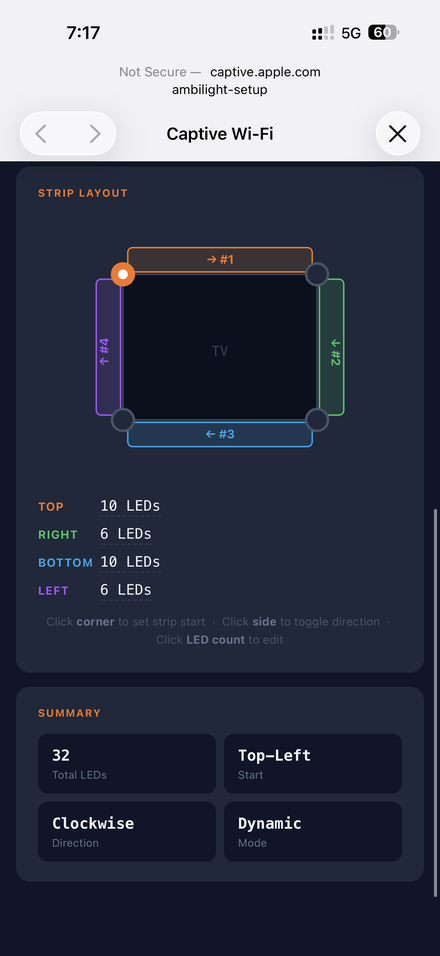
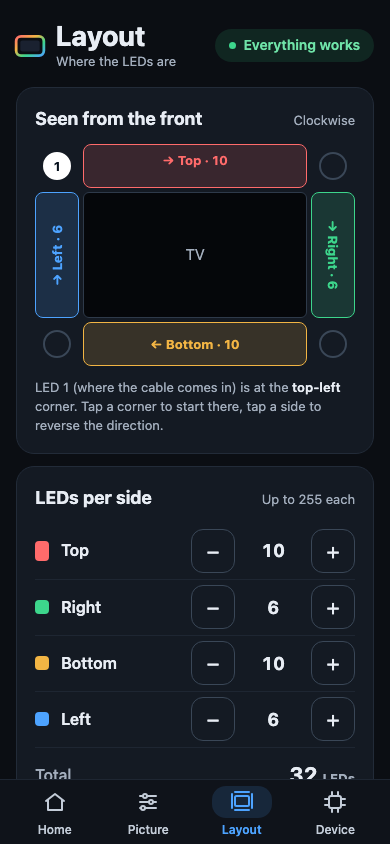
docs: phone web app screens, Wi-Fi setup and calibration steps

diff --git a/docs/INSTALL.md b/docs/INSTALL.md
@@ -9,7 +9,7 @@ Build the hardware first — see [HARDWARE.md](HARDWARE.md).
 | What | Why |
 |------|-----|
 | [PlatformIO](https://platformio.org/install) (CLI or VS Code extension) | Builds and flashes the ESP32 firmware |
-| [Node.js](https://nodejs.org/) 18+ and npm (24 for the TV launcher) | The firmware build compiles the React web UI and embeds it into the binary (`esp32/scripts/embed_web.py` runs `npm run build`); the TV launcher is built from `tv/app` |
+| [Node.js](https://nodejs.org/) 18+ and npm (24 for the TV launcher) | The firmware build compiles the web app (Preact) and embeds it into the binary (`esp32/scripts/embed_web.py` runs `npm run build`); the TV launcher is built from `tv/app` |
 | [Tizen Studio](https://developer.samsung.com/smarttv/develop/getting-started/setting-up-sdk/installing-tv-sdk.html) or VS Code with the Tizen extension, plus *TV Extensions* and *Samsung Certificate Extension* | Builds, signs and installs the TV apps |
 | A Samsung account | Required to issue the Samsung certificate for your TV |
 | TV, ESP32 and PC on the same LAN | Discovery uses UDP broadcast; guest networks and AP/client isolation block it |
@@ -73,15 +73,15 @@ cd esp32
 pio run -e ota -t upload
 ```
 
-`[env:ota]` in `platformio.ini` uploads to `ambilight.local` (the OTA hostname, resolved via mDNS) with the password `123456`. If you changed the hostname or password in the web UI (*WiFi* tab), or mDNS doesn't resolve on your network, update `upload_port` (the device IP works too) and `--auth` there.
+`[env:ota]` in `platformio.ini` uploads to `ambilight.local` (the OTA hostname, resolved via mDNS) with the password `123456`. If you changed the hostname or password in the web app (*Device* tab, *Updates over Wi-Fi*), or mDNS doesn't resolve on your network, update `upload_port` (the device IP works too) and `--auth` there.
 
 ## 2. Connect to Wi-Fi
 
 1. With no saved credentials (or if the saved network can't be reached within 12 s), the ESP32 starts an **open** access point `ambilight-setup`.
 2. Connect a phone or laptop to it. The captive portal opens automatically; if it doesn't, open `http://192.168.4.1`.
-3. On the *WiFi* tab enter your network's SSID and password and save. The ESP32 restarts and joins your network.
+3. The page opens on **Connect the controller to your Wi-Fi**: enter the network name (2.4 GHz: the ESP32 has no 5 GHz radio) and the password, then *Connect*. The ESP32 restarts and joins your network, and the page tells you how to find it again: connect the phone back to your Wi-Fi and open `http://ambilight.local` (the OTA hostname, via mDNS) or the address ending in `.245` (below). The TV finds the controller by itself.
 
-**Finding the device IP.** After connecting, the ESP32 switches to the address `<your subnet>.245` (e.g. `192.168.1.245`) so it stays predictable without a DHCP reservation. If that address doesn't fit the router's network (e.g. it is the router's own address or outside a small subnet), the ESP32 keeps the DHCP address and logs why. It does not check whether another device already uses the address. Change the number on the *WiFi* tab (*Static IP — last number*):
+**Finding the device IP.** After connecting, the ESP32 switches to the address `<your subnet>.245` (e.g. `192.168.1.245`) so it stays predictable without a DHCP reservation. If that address doesn't fit the router's network (e.g. it is the router's own address or outside a small subnet), the ESP32 keeps the DHCP address and logs why. It does not check whether another device already uses the address. Change the number on the *Device* tab (*Fixed address, last number*):
 - if `.245` is taken on your network, pick another number (1–254), or `0` to keep the address the router assigns (DHCP);
 - **with several ESP32 controllers**, give each one its own number (or `0`) — otherwise they all take the same address.
 
@@ -91,27 +91,23 @@ The current IP is also printed in the serial log and in the Telnet log (port 232
 
 ## 3. Calibrate the strip
 
-Open `http://<esp32-ip>` → *LEDs* tab.
+Open `http://<esp32-ip>` (or `http://ambilight.local`) on a phone → *Layout* tab.
 
 <p>
-  <img src="media/web-ui-layout@2x.png" srcset="media/web-ui-layout.png 1x, media/web-ui-layout@2x.png 2x, media/web-ui-layout@3x.png 3x" width="300" alt="Strip layout editor">
-  <img src="media/web-ui-color@2x.png" srcset="media/web-ui-color.png 1x, media/web-ui-color@2x.png 2x, media/web-ui-color@3x.png 3x" width="300" alt="Brightness and color correction">
+  <img src="media/web-ui-layout@2x.png" srcset="media/web-ui-layout.png 1x, media/web-ui-layout@2x.png 2x, media/web-ui-layout@3x.png 3x" width="300" alt="Layout tab: strip diagram with the sides in their preview colors, LEDs per side">
+  <img src="media/web-ui-home@2x.png" srcset="media/web-ui-home.png 1x, media/web-ui-home@2x.png 2x, media/web-ui-home@3x.png 3x" width="300" alt="Home tab: lighting switch, brightness, mode and static colors, live status">
 </p>
 
-The tab has two modes, switched at the top: **Dynamic** (follows the TV) and **Plain** (a fixed color). The strip layout editor and color correction are shown only in **Dynamic** mode — switch to it first.
+1. **LEDs per side.** Under *LEDs per side* set how many LEDs are on the top, right, bottom and left edges (as seen from the front of the TV) with − / + or by typing the number.
+2. **Start corner.** In the diagram, tap the corner where the strip's data input is (LED 1, marked white).
+3. **Direction.** Tap any side to switch between clockwise and counter-clockwise.
 
-1. **LED count per side.** Click each count and enter how many LEDs are on the top, right, bottom and left edges (as seen from the front of the TV).
-2. **Start corner.** Click the corner where the strip's data input is.
-3. **Direction.** Click a side to toggle clockwise / counter-clockwise.
+Each change lights a 10-second preview on the strip: **top red, right green, bottom yellow, left blue** (the colors of the sides in the diagram) and LED 1 **white**. If a side shows the wrong color, the corner or direction is wrong. *Light up the strip* shows the preview again. Nothing is stored until you tap **Save layout** (the card says *Not saved* until then); saving also sets the number of LEDs driven to the sum of the sides.
 
-Each change lights a 10-second preview on the strip: **top red, right green, bottom yellow, left blue**, and the first LED **white**. If a side shows the wrong color, the corner or direction is wrong.
+4. **Color correction** (optional, *Picture* tab): gamma (default 2.2), saturation, per-channel white balance. They affect the colors coming from the TV and persist across reboots; *Reset color to defaults* brings them back.
+5. **Power limit** (optional, *Picture* tab): set *Limit* to what your PSU can deliver (with some headroom) and *One LED* from your strip's datasheet: watts per meter ÷ LEDs per meter, e.g. 14.4 W/m ÷ 20 = 0.72 W for a 12 V WS2811 strip with 60 LEDs/m. When a frame would exceed the limit, the brightness is lowered for that frame; *Using now* and the Home status show the estimated power. It is an estimate, not a measurement — keep a fuse anyway (see [HARDWARE.md](HARDWARE.md#power)).
 
-4. **Color correction** (optional): gamma (default 2.2), saturation boost, per-channel white balance. They affect the colors coming from the TV and persist across reboots.
-5. **Power limit** (optional, both modes): set *Max power* to what your PSU can deliver (with some headroom) and *Power per LED pixel* from your strip's datasheet — watts per meter ÷ pixels per meter, e.g. 14.4 W/m ÷ 20 = 0.72 W for a 12 V WS2811 strip with 60 LEDs/m. When a frame would exceed the limit, the brightness is lowered for that frame. The *Status* tab shows the estimated power. It is an estimate, not a measurement — keep a fuse anyway (see [HARDWARE.md](HARDWARE.md#power)).
-
-In **Plain** mode the tab shows the LED count, brightness and the color picker; the strip shows that color. In **Dynamic** mode the strip stays dark until frames arrive and fades to black 5 s after the last one.
-
-The *Status* tab has the **Lighting** on/off switch (off keeps the strip dark in both modes; the settings stay), shows how many frames arrived from the TV and how long ago the last one came, and has **Blink to identify** (the strip blinks white a few times — handy with several controllers) and **Restart**.
+The *Home* tab has the everyday controls: the **Lighting** switch (off keeps the strip dark; the settings stay), **Brightness**, and the **Mode**: *Follow the picture* (the strip stays dark until frames arrive from the TV and fades to black 5 s after the last one) or *Static color* (the six colors the TV offers, or any color). Its status shows whether frames arrive from the TV, the estimated strip power and the Wi-Fi signal, and a banner on top says when something is wrong. The *Device* tab has **Blink to identify** (the strip blinks white a few times — handy with several controllers), **Restart**, and the Wi-Fi and OTA settings.
 
 You can test the whole chain without a TV using [`tools/led_tester.py`](../tools/README.md) — `--mode sides` uses the same colors as the preview (without the white first LED):
 
@@ -201,7 +197,7 @@ Hold the **BOOT** button (GPIO 0) on the ESP32 for 3 seconds. All settings, incl
 ## Troubleshooting
 
 **The strip stays dark.**
-- Check the mode: in *Dynamic* the strip is dark until frames arrive and fades out 5 s after they stop. Switch to *Plain* to test the wiring.
+- Check the mode on the web app's *Home* tab: in *Follow the picture* the strip is dark until frames arrive and fades out 5 s after they stop. Pick a *Static color* to test the wiring.
 - Check that the ESP32 GND and the strip GND are connected, and that DATA goes to GPIO 23 through the 330 Ω resistor.
 
 **Colors are wrong (e.g. red shows as blue).** WS2811 strips differ in channel order. The firmware assumes **BRG** — see `FastLED.addLeds<WS2811, LED_PIN, BRG>` in `esp32/src/LEDController.cpp`. Light the strip red with `led_tester.py --mode solid --color 255 0 0`, find the order that gives red (`RGB`, `GRB`, `BRG`…), change it and reflash.

diff --git a/docs/ARCHITECTURE.md b/docs/ARCHITECTURE.md
@@ -31,7 +31,7 @@ wiring in [HARDWARE.md](HARDWARE.md).
 │  UDPReceiver  ──►  LEDController  ──►  WS2811 LED strip     │
 │                                                             │
 │  DiscoveryResponder  (answers TV broadcast on UDP 9003)     │
-│  WebPortal  ──►  React UI (served from flash)               │
+│  WebPortal  ──►  Preact app (served from flash)             │
 │  NetworkManager  (STA / AP captive-portal fallback)         │
 │  OTAManager  (Arduino OTA)                                  │
 │  RemoteLogger  (Telnet, port 2323)                          │
@@ -182,6 +182,11 @@ widget is not preloaded (no `prelaunch.support`), and Back on Home exits it.
 | `src/controllers.ts` | The discovered controllers over HTTP: `/status` + `/config` once, `/metrics` every second while Home is shown; writes |
 | `src/data/` | Adapters: `service.ts` (message port), `esp32.ts` (HTTP), `mock.ts` (desktop browser, `?state=ok\|lost\|none\|off\|unsupported`), `types.ts` (wire formats) |
 
+Its look (tokens, icons, cards, switch, status pill and lines, problem banner, swatches, live
+preview) is shared with the controller's web app through the UI kit `@ambilight/ui`
+([`packages/ui`](../packages/ui/README.md)); the launcher still has its own copy in
+`src/style.css` and moves to the kit's TV density later.
+
 Remote: ◀ ▶ ▲ ▼ move, OK activates, Back exits on Home (closes the test pattern, returns
 to Home from other sections). ◀ from the leftmost element moves to the rail.
 
@@ -321,17 +326,34 @@ Limits: `MAX_LEDS = 1500`, up to 255 LEDs per side, data on GPIO 23, color order
 
 ### Web portal (`WebPortal`)
 
-The React app in `esp32/web/` is built by `scripts/embed_web.py` (a PlatformIO pre-build
-step running `npm run build`) into a single HTML file, gzipped, embedded as `src/web_ui.h`
-and served from flash with `Content-Encoding: gzip` — no SPIFFS/LittleFS. It talks to the
-API through `@ambilight/protocol` (`createEsp32Client`, generated types, slider ranges and
-defaults from `limits`; see [protocol/README.md](../protocol/README.md#using-ambilightprotocol)).
-Three tabs: Status, WiFi, LEDs. The Status tab has the lighting on/off switch
-(`POST /save/power`), network and system metrics (including frames received and the age
-of the last frame), and *Blink to identify* (`POST /identify`) and *Restart*
-(`POST /restart`, after a confirmation) buttons. The LEDs tab has a Dynamic / Plain
-switch: Dynamic shows brightness, color correction and the strip layout editor; Plain
-shows LED count, brightness and the static color. Settings are saved to NVS on change; `Config::sanitize()` clamps them to
+The phone web app in `esp32/web/` (Preact + TypeScript; `preact`, `@ambilight/protocol` and
+`@ambilight/ui` are its only runtime dependencies) is built by `scripts/embed_web.py` (a
+PlatformIO pre-build step running `npm run build`) into a single HTML file, gzipped (≈ 23 KB),
+embedded as `src/web_ui.h` and served from flash with `Content-Encoding: gzip` — no
+SPIFFS/LittleFS, no webfonts or external requests (the captive portal is offline). It talks
+to the API through `@ambilight/protocol` (`createEsp32Client`, generated types, slider ranges
+and defaults from `limits`; see [protocol/README.md](../protocol/README.md#using-ambilightprotocol))
+and looks like the TV launcher: the same tokens and components from the UI kit
+[`packages/ui`](../packages/ui/README.md), at phone density.
+
+**First-time setup comes first:** while `GET /status` reports `mode: "AP"` (captive portal
+on `ambilight-setup`) the app opens a Wi-Fi setup screen instead of the tabs: network name
+and password → `POST /save/network` (an empty `wifi_ssid` / `ota_host` is never sent), then
+what happens next: the controller restarts and joins the network, it is found at
+`http://<ota_host>.local` or `<subnet>.<ip_octet>`, and the TV finds it by itself. *Skip*
+opens the tabs anyway.
+
+Otherwise a bottom tab bar with four tabs (the URL hash keeps the tab: `#home`, `#picture`,
+`#layout`, `#device`):
+
+| Tab | What | Requests |
+|---|---|---|
+| Home | Problem banner (no frames for 30 s while following the picture, power limit dimming, controller not answering); *Lighting* switch; *Brightness*; *Mode*: Follow the picture / Static color with the TV's six swatches and a custom color; live status: receiving from the TV (`last_frame_ms` < 2 s) with frames and age, estimated strip power, Wi-Fi signal | `POST /save/power`, `/save/leds` (brightness, color; 300 ms after the last change), `/save/mode`; `GET /metrics` every 2 s while the page is visible, `GET /status` every 10 s |
+| Picture | Gamma, saturation, white balance R/G/B, *Reset color to defaults*; power limit and one LED's power, power used now | `POST /save/leds` |
+| Layout | Strip diagram (corners: start, sides: direction, colored as the preview lights them), LEDs per side, *Light up the strip*, *Save layout* | `POST /preview/calibration` 400 ms after each change, `POST /save/calibration` on save |
+| Device | Firmware, uptime, memory, Wi-Fi; *Blink to identify*; *Restart* (after a confirmation); Wi-Fi, fixed address, OTA name and password | `POST /identify`, `/restart`, `/save/network` |
+
+Settings are saved to NVS on change; `Config::sanitize()` clamps them to
 valid ranges on every load and save. Only network changes and `POST /restart` restart
 the device. Every response carries `Access-Control-Allow-Origin: *` and `OPTIONS` on any
 path answers the CORS preflight (see [NETWORKING.md](NETWORKING.md#esp32-http-api)).

diff --git a/esp32/README.md b/esp32/README.md
@@ -1,6 +1,6 @@
 # ESP32 firmware
 
-PlatformIO / Arduino firmware that receives color frames from the TV and drives a WS2811 strip. Includes a React web UI for configuration, embedded into the firmware binary.
+PlatformIO / Arduino firmware that receives color frames from the TV and drives a WS2811 strip. Includes the phone web app for setup and control (Preact, on the shared UI kit `packages/ui`), embedded into the firmware binary.
 
 Setup and flashing: [docs/INSTALL.md § ESP32](../docs/INSTALL.md#1-esp32-firmware). Internals: [docs/ARCHITECTURE.md](../docs/ARCHITECTURE.md#3-esp32-firmware-esp32src).
 
@@ -23,16 +23,17 @@ src/
   WebPortal.*             HTTP server: web UI and JSON API
   OTAManager.*            Arduino OTA
   RemoteLogger.*          Log to Serial + Telnet (port 2323)
-web/                      React + Vite web UI (built into a single HTML file): Status (lighting
-                          on/off, metrics, identify, restart), WiFi, LEDs; API client, types
-                          and limits from packages/protocol (@ambilight/protocol)
+web/                      Preact + Vite phone web app (built into one HTML file, ~23 KB gzipped):
+                          Wi-Fi setup first in AP mode, then Home (lighting, brightness, mode,
+                          live status), Picture, Layout, Device; API client, types and limits
+                          from packages/protocol, look from packages/ui (@ambilight/ui)
 test/                     Host unit tests (pio test -e native)
 ```
 
 ## Commands
 
 ```sh
-pio run                   # build (also builds the web UI; needs npm install in web/ once)
+pio run                   # build (also builds the web app; needs npm install in web/ once)
 pio test -e native        # host unit tests (StripLayout.h, PowerLimit.h, StaticIp.h, LightOutput.h)
 pio run -t upload         # flash over USB
 pio run -e ota -t upload  # flash over Wi-Fi (ambilight.local, see [env:ota] in platformio.ini)
@@ -42,6 +43,8 @@ nc <esp32-ip> 2323        # remote log over Telnet
 ```
 
 `src/web_ui.h` is generated on every build and is not committed.
+
+**Web app without a controller:** `npm run dev` in `web/` and open it with `?mock=ok|ap|noframes|limited|offline` (see [CONTRIBUTING.md](../docs/CONTRIBUTING.md#developing-the-web-ui)); `npm run build:mock` writes the same page with the mock to `web/dist-mock/`. The firmware build never contains the mock.
 
 **Releases** are driven by [changesets](../.changeset/README.md): merging the *chore: release* PR tags `vX.Y.Z`, creates the GitHub release from `CHANGELOG.md` and runs `.github/workflows/release.yml`, which builds the images with `scripts/make_release.sh` and attaches them. Pushing a `v*` tag by hand also works. Every CI run uploads the images as the `esp32-firmware` artifact.
 

diff --git a/docs/CONTRIBUTING.md b/docs/CONTRIBUTING.md
@@ -40,11 +40,13 @@ For more detail — or if the launcher shows nothing useful:
 - Add a changeset if users will notice the change: `npm install` once at the repo root, then `npx changeset` (see [.changeset/README.md](../.changeset/README.md)). Docs- or CI-only changes don't need one.
 - Describe how you tested: TV model, strip type, what you observed.
 - If you change ports, packet formats, HTTP endpoints, MessagePort messages, settings or defaults, change the protocol definition in [`protocol/`](../protocol/README.md) first (schemas, `constants.json`, a fixture per message), then run `npm run protocol:gen` and `npm run protocol:check` at the repo root and commit the regenerated files. Also update [NETWORKING.md](NETWORKING.md), and for settings or defaults the tables in [ARCHITECTURE.md](ARCHITECTURE.md).
-- Firmware: make sure `pio run` builds (it also builds the web UI) and `pio test -e native` passes. Logic without Arduino dependencies goes into headers like `src/StripLayout.h` so it can be tested on the host. Web UI: `npm run type-check` in `esp32/web`.
+- Firmware: make sure `pio run` builds (it also builds the web UI) and `pio test -e native` passes. Logic without Arduino dependencies goes into headers like `src/StripLayout.h` so it can be tested on the host. Web UI: `npm run type-check` in `esp32/web`, and `npm run type-check && npm test` in `packages/ui` when you change the UI kit.
 
 ## Developing the web UI
 
-`npm run dev` in `esp32/web` starts Vite with hot reload, but the dev server has no proxy to the ESP32, so API calls fail unless you add one in `vite.config.ts`:
+`npm run dev` in `esp32/web` starts Vite with hot reload. Without a controller, add a mock to the URL: `?mock=ok` (streaming), `ap` (first-time Wi-Fi setup), `noframes`, `limited` (power limit) or `offline`, and a tab as the hash (`#picture`, `#layout`, `#device`). `npm run build:mock` builds the same single file with the mock into `dist-mock/` (for screenshots: open `dist-mock/index.html?mock=…` from disk). The mock exists only in these two modes; the firmware build (`npm run build`) leaves it out.
+
+To talk to a real ESP32 from the dev server, add a proxy in `vite.config.ts`:
 
 ```ts
 server: { proxy: { '/status': 'http://<esp32-ip>', '/config': 'http://<esp32-ip>', '/metrics': 'http://<esp32-ip>', '/save': 'http://<esp32-ip>', '/preview': 'http://<esp32-ip>', '/identify': 'http://<esp32-ip>', '/restart': 'http://<esp32-ip>' } }

diff --git a/docs/HARDWARE.md b/docs/HARDWARE.md
@@ -76,11 +76,11 @@ WS2811 strips from different vendors wire the R, G and B channels in different o
 FastLED.addLeds<WS2811, LED_PIN, BRG>(_leds, _numLeds);
 ```
 
-If colors come out wrong, set the strip to solid red (web UI *Plain* mode, or `tools/led_tester.py --mode solid --color 255 0 0`), try `RGB`, `GRB`, `BRG`, etc. until it shows red, and reflash.
+If colors come out wrong, set the strip to solid red (a *Static color* in the web app, or `tools/led_tester.py --mode solid --color 255 0 0`), try `RGB`, `GRB`, `BRG`, etc. until it shows red, and reflash.
 
 ## Power
 
-- **Size the PSU from your strip's datasheet**: watts per meter × length, plus ~20 % headroom. Without a power limit, full white at brightness 255 draws the maximum. The web UI has an optional **power limit** (LEDs tab) that lowers the brightness when the estimated power would exceed it — see [INSTALL.md § Calibrate](INSTALL.md#3-calibrate-the-strip). It is an estimate from the pixel colors, not a measurement.
+- **Size the PSU from your strip's datasheet**: watts per meter × length, plus ~20 % headroom. Without a power limit, full white at brightness 255 draws the maximum. The web app has an optional **power limit** (*Picture* tab) that lowers the brightness when the estimated power would exceed it — see [INSTALL.md § Calibrate](INSTALL.md#3-calibrate-the-strip). It is an estimate from the pixel colors, not a measurement.
 - **Fuse**: an inline fuse on the 12 V output, rated slightly above the strip's maximum current, protects the wiring if something shorts behind the TV.
 - **Long strips**: if the far end looks dimmer or yellowish at full white, feed +12 V / GND to both ends of the strip.
 - **Data level**: the ESP32 outputs 3.3 V logic. It usually works with a short data wire; if the first LEDs flicker or show random colors, shorten the wire or add a 3.3 → 5 V level shifter (e.g. 74AHCT125).

diff --git a/README.md b/README.md
@@ -38,8 +38,8 @@ The TV finds its controllers on its own. [Architecture](docs/ARCHITECTURE.md) ·
   <img src="docs/media/tv-home-problem@2x.png" width="49%" alt="TV app when the controller stops answering: the problem and a Search now button on top">
 </p>
 <p>
-  <img src="docs/media/web-ui-color@2x.png" width="160" alt="Controller web app: brightness and color correction">
-  <img src="docs/media/web-ui-layout@2x.png" width="160" alt="Controller web app: strip layout calibration">
+  <img src="docs/media/web-ui-home@2x.png" width="195" alt="Controller web app on a phone: lighting switch, brightness, mode and static colors, live status">
+  <img src="docs/media/web-ui-layout@2x.png" width="195" alt="Controller web app on a phone: strip layout with the sides in their preview colors, LEDs per side">
 </p>
 
 ## Supported TVs
@@ -64,6 +64,6 @@ flowchart LR
 
 ## More
 
-[Networking](docs/NETWORKING.md) · [HyperHDR](docs/HYPERHDR.md) · [TV apps](tv/README.md) · [Tools](tools/README.md) · [Contributing](docs/CONTRIBUTING.md) · MIT [License](LICENSE)
+[Networking](docs/NETWORKING.md) · [HyperHDR](docs/HYPERHDR.md) · [TV apps](tv/README.md) · [UI kit](packages/ui/README.md) · [Tools](tools/README.md) · [Contributing](docs/CONTRIBUTING.md) · MIT [License](LICENSE)
 
 <sub>Created for educational purposes through reverse engineering. No responsibility is assumed for any use of this code, including violations of third-party terms of service or damage to equipment. Use at your own risk.</sub>

diff --git a/.changeset/esp32-web-phone-redesign.md b/.changeset/esp32-web-phone-redesign.md
@@ -1,0 +1,5 @@
+---
+"tizen-os-ambilight": minor
+---
+
+The controller's web page is redesigned for phones and now looks like the TV app: Home has the lighting switch, brightness, mode and static colors with the live status below, and Picture, Layout and Device have the rest. A new controller opens straight on a Wi-Fi setup screen that also tells you how to find it afterwards.

diff --git a/tools/README.md b/tools/README.md
@@ -40,4 +40,4 @@ python3 tools/led_tester.py --host <esp32-ip> --mode off
 | `--h` / `--v` | 6 / 4 | Samples per horizontal / vertical edge |
 | `--port` | 9001 | UDP port |
 
-The ESP32 must be in *Dynamic* mode. On Ctrl-C the tester sends one black frame.
+The ESP32 must be in *Follow the picture* mode (`led_mode=1`). On Ctrl-C the tester sends one black frame.
